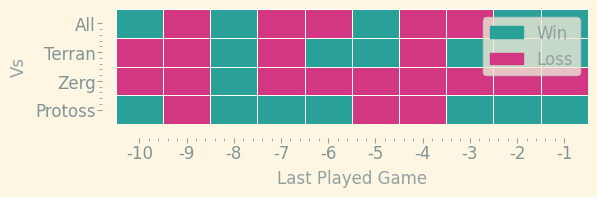
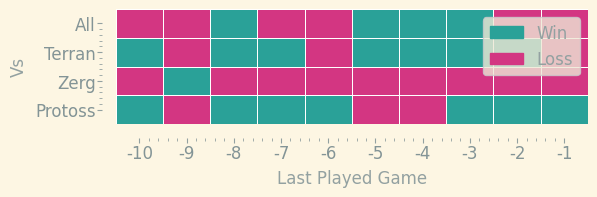
running on push

Changed region(s): [[0.1809, 0.0305, 0.603, 0.4873], [0.6633, 0.0305, 0.995, 0.3655]]

diff --git a/docs/index.md b/docs/index.md
@@ -18,7 +18,7 @@ layout: home
   <tbody>
     <tr>
       <td>Matches Played</td>
-      <td>1561</td>
+      <td>1564</td>
     </tr>
     <tr>
       <td>MMR Gained</td>
@@ -115,8 +115,8 @@ layout: home
 | Race    |   Wins |   Losses |   Total |   Win Rate (%) |   MMR Gained |   MMR Lost |
 |:--------|-------:|---------:|--------:|---------------:|-------------:|-----------:|
 | Protoss |    263 |      356 |     619 |        42.4879 |         4834 |       5809 |
-| Terran  |    175 |      210 |     385 |        45.4545 |         4004 |       3034 |
-| Zerg    |    301 |      223 |     524 |        57.4427 |         4786 |       4653 |
+| Terran  |    176 |      211 |     387 |        45.478  |         4004 |       3034 |
+| Zerg    |    302 |      223 |     525 |        57.5238 |         4786 |       4653 |
 
 ![Games by Race](./assets/gm_hist.png)
 
